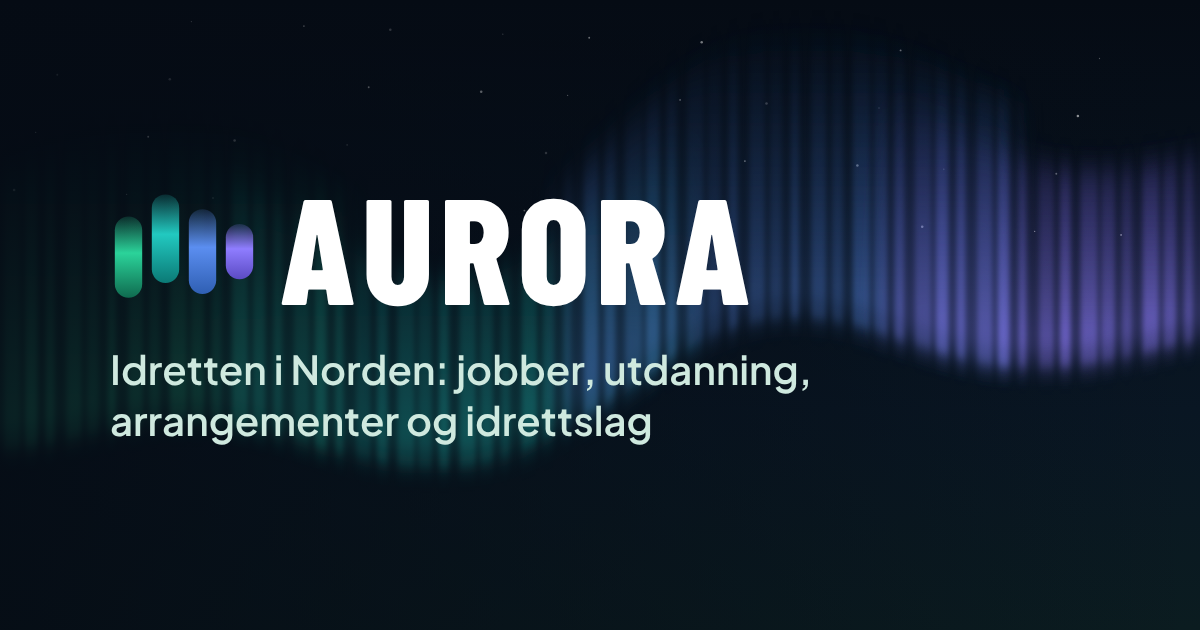
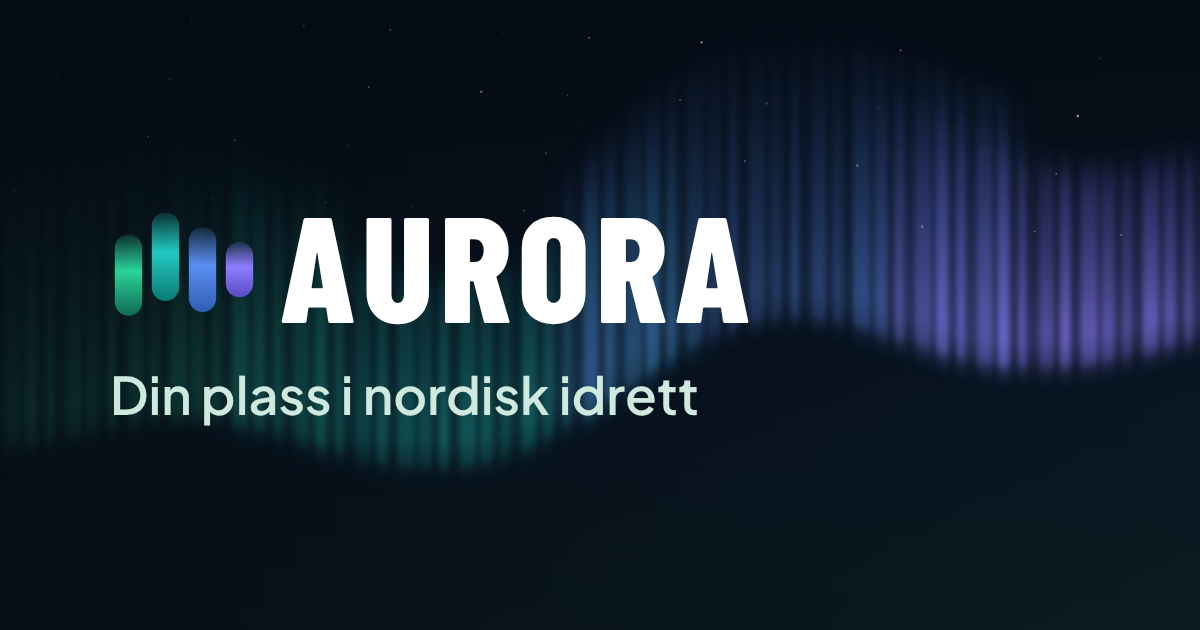
Slagord «Din plass i nordisk idrett» på forsiden og delingsbildet; fjern fargeblink ved valg av land
Claude-Session: https://claude.ai/code/session_013LAa21P48HpRNPegdZPvXb

Changed region(s): [[0.0925, 0.3016, 0.6475, 0.5127], [0.0925, 0.573, 0.6783, 0.7238]]

diff --git a/index.html b/index.html
@@ -7,8 +7,8 @@
 <link rel="apple-touch-icon" href="img/icon-180.png">
 <meta property="og:type" content="website">
 <meta property="og:site_name" content="Aurora">
-<meta property="og:title" content="Aurora – Idretten i Norden">
-<meta property="og:description" content="Jobber, utdanning, arrangementer og klubber innen idrett i Norge, Sverige, Danmark, Finland og Island.">
+<meta property="og:title" content="Aurora – Din plass i nordisk idrett">
+<meta property="og:description" content="Din plass i nordisk idrett. Jobber, utdanning, arrangementer og idrettslag i Norge, Sverige, Danmark, Finland og Island.">
 <meta property="og:image" content="https://bergernmr.github.io/idrettsjobber/img/og.png">
 <meta property="og:url" content="https://bergernmr.github.io/idrettsjobber/">
 <meta name="twitter:card" content="summary_large_image">
@@ -2100,7 +2100,7 @@ const I18N = {
 "Slutt": ["Slut","Slut","Päättynyt","Lokið","Full time"],
 "Pause": ["Paus","Pause","Tauko","Hálfleikur","Half time"],
 "Dine klubber nå": ["Dina klubbar nu","Dine klubber nu","Seurasi nyt","Félögin þín núna","Your clubs now"],
-"Finn din plass i": ["Hitta din plats i","Find din plads i","Löydä paikkasi","Finndu þinn stað í","Find your place in"],
+"Din plass i": ["Din plats i","Din plads i","Paikkasi","Þinn staður í","Your place in"],
 "nordisk idrett": ["nordisk idrott","nordisk idræt","pohjoismaisessa urheilussa","norrænum íþróttum","Nordic sport"],
 "Finn en klubb": ["Hitta en klubb","Find en klub","Löydä seura","Finndu félag","Find a club"],
 "Se kalenderen": ["Se kalendern","Se kalenderen","Katso kalenteri","Sjá dagatalið","See the calendar"],
@@ -3856,21 +3856,10 @@ function setStage(k, rect) {
   const tail = k === "all" ? "i Norden" : NATION[k].h1;
   if (LANG === "nb") h.textContent = tail;
   else { $("h1pre").style.display = "none"; h.textContent = t("Idretten " + tail); }
-  h.classList.remove("swap"); void h.offsetWidth; h.classList.add("swap");
+  // Ingen fargeblink eller hopp når man velger land (Noah 2026-10-27: «blir litt mye»)
   if (cur === next) return;
   if (cur) cur.classList.remove("on");
-  if (next) { void next.offsetWidth; next.classList.add("on"); }
-  if (next && rect && !reduceMotion() && $("wipe").animate) {
-    const x = rect.left + rect.width / 2, y = rect.top + rect.height / 2;
-    const r = Math.hypot(Math.max(x, innerWidth - x), Math.max(y, innerHeight - y));
-    const w = $("wipe");
-    w.style.background = k === "all" ? "var(--accent)" : NATION[k].wipe;
-    w.animate([
-      { clipPath: `circle(0px at ${x}px ${y}px)`, opacity: .55 },
-      { clipPath: `circle(${r}px at ${x}px ${y}px)`, opacity: .4, offset: .5 },
-      { clipPath: `circle(${r}px at ${x}px ${y}px)`, opacity: 0 }
-    ], { duration: 950, easing: "cubic-bezier(.3,.7,.2,1)" });
-  }
+  if (next) next.classList.add("on");
 }
 
 function chipRow(rowId, map, key, has) {
@@ -4494,7 +4483,7 @@ function renderTabs() {
   const home = state.tab === "forside";
   $("board").hidden = $("stamp").hidden = $("hlede").hidden = home || state.tab === "minside";
   if (home) startHero();
-  $("herohead").innerHTML = home ? `${t("Finn din plass i")} <em>${t("nordisk idrett")}</em>` : "";
+  $("herohead").innerHTML = home ? `${t("Din plass i")} <em>${t("nordisk idrett")}</em>` : "";
   document.body.classList.toggle("home", home);
   document.body.dataset.tab = state.tab;
   const hero = SECHERO[state.tab];
